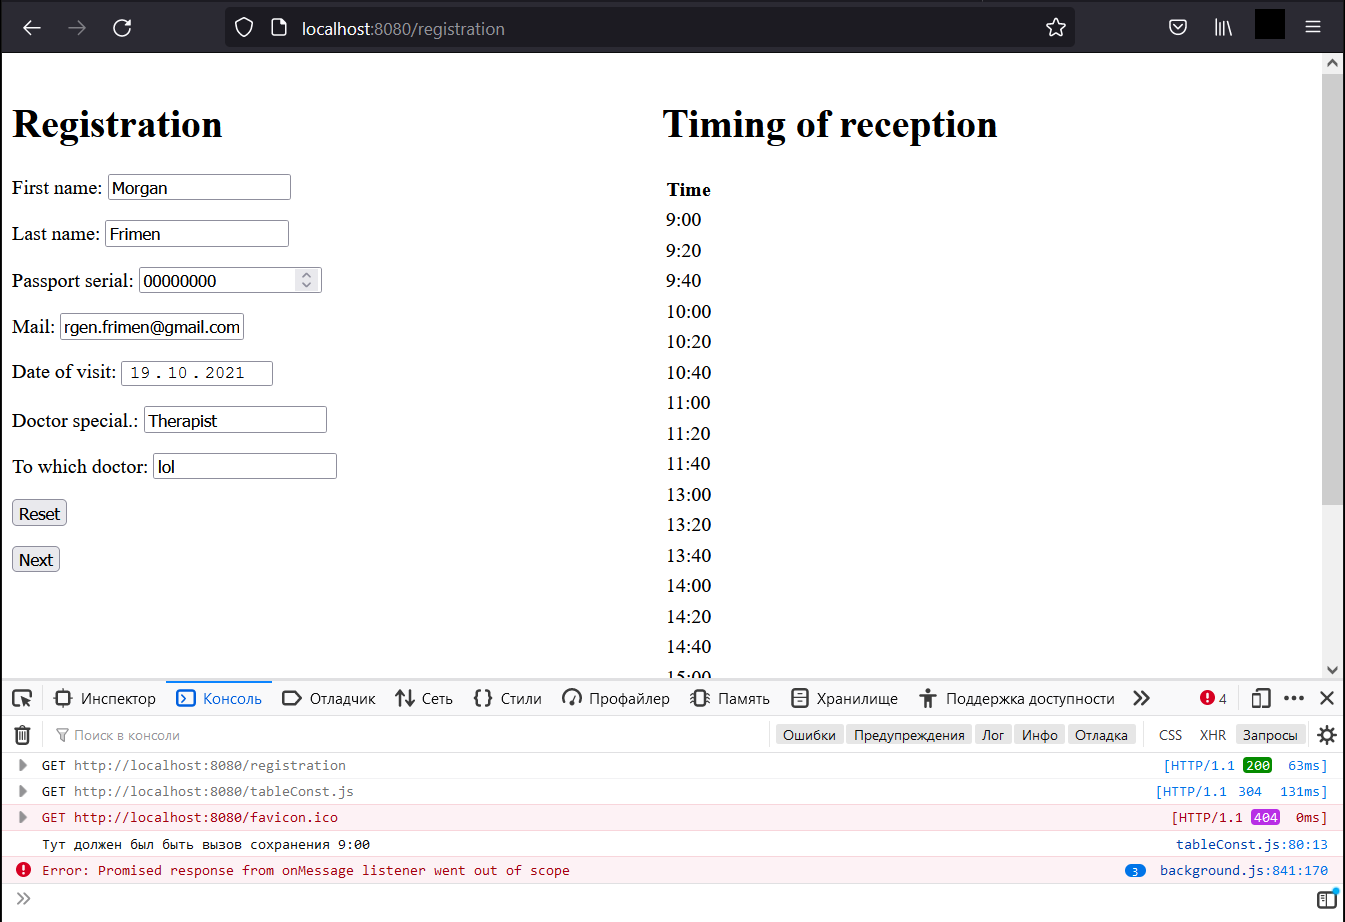
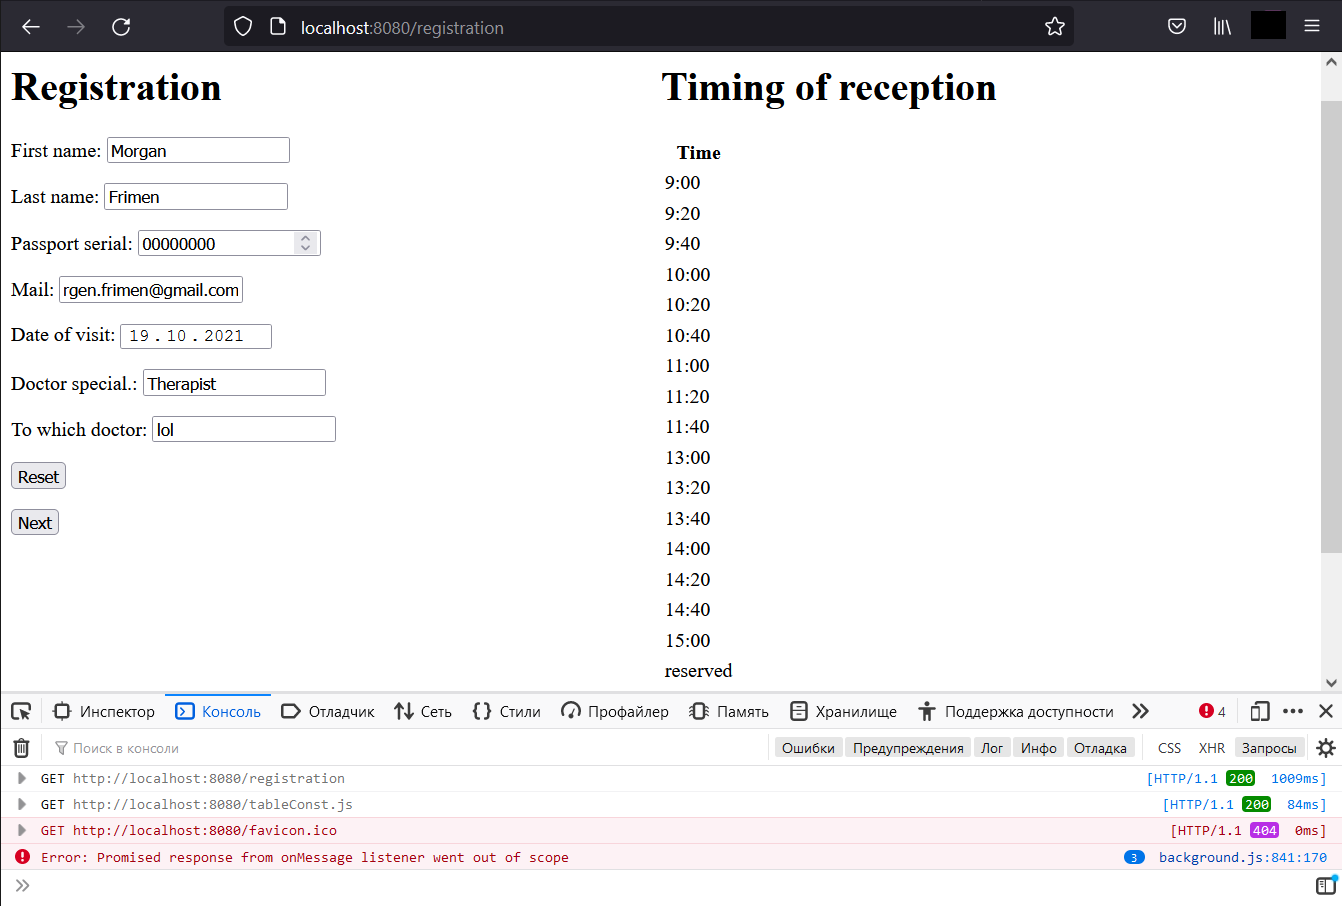
Version 0.0.14

diff --git a/Test_task_java_LevlUp/HospitalRegistration/src/main/resources/static/tableConst.js b/Test_task_java_LevlUp/HospitalRegistration/src/main/resources/static/tableConst.js
@@ -53,7 +53,7 @@ function getTableHtml(jsonDate){ //создание таблицы с свобо
         html += '</tr>';
     }
     html += '</tbody></table>';
-    html += '<p><input type="submit" value="Submit" />';
+    //html += '<p><input type="submit" value="Submit" />'; //порядок действий должен быть такой выбираем дату после этого создаетсч недостающая часть формы где добавляется полная дата т.е. год-месяц-день час-минуты
     return html;
 }
 
@@ -64,11 +64,11 @@ function reserved(jsonDate, dateArrTime){
         let value = jsonDate[i]; //тут мы получили массив дат из контролера но это все string
         let dat = new Date(value);
         let stringHoursMinutes = dat.getHours() + ":" + dat.getMinutes();
-        if(stringHoursMinutes == dateArrTime){ //полная лажа в текущей дате еще нет
+        if(stringHoursMinutes == dateArrTime){ //если при переборе списка полученного из репозитория есть хоть какието значения значит будет, совпадение это значит что кто то уже зарегистрирован на эту дату
             html += '<td>';
             html += 'reserved';
             html += '</td></tr>';
-            return html;
+            return html; //возвращаем просто строку без возможности вызова метода создания записи на этот день
         }
     }
     html += '<td onclick="oneClick(this.innerHTML)">';
@@ -78,7 +78,15 @@ function reserved(jsonDate, dateArrTime){
 }
 
 function oneClick(time){ //после нажати я на время возвращает строчку со временем
-    //return time;
+    //
+    //порядок действий должен быть такой выбираем дату после этого создаетсч недостающая часть формы где добавляется полная дата т.е. год-месяц-день час-минуты
+    //<input type="date" id="itDate" th:field="*{monthDay}" />
+    //html += '<p><input type="submit" value="Submit" />';
+
+    //document.getElementById(id).innerHTML = new HTML
+    //document.getElementById(id).attribute = new value
+    //document.getElementById(id).value = new value //наиболее перспективный вариант
+
     console.log("Тут должен был быть вызов сохранения " + time);
 }
 

diff --git a/Test_task_java_LevlUp/HospitalRegistration/src/main/resources/templates/page.html b/Test_task_java_LevlUp/HospitalRegistration/src/main/resources/templates/page.html
@@ -23,8 +23,6 @@
 </head>
 <body>
 
-<!--<script src="../JS/tableConst.js"></script>-->
-<!--<script type="text/javascript" th:src="@{/js/tableConst.js}"></script>-->
 <script type="text/javascript" src="/tableConst.js"></script>
 
 <p id="style"></p>
@@ -44,11 +42,11 @@
       <p>To which doctor: <input type="text" th:field="*{toWhichDoctor}" /></p>
       <!--<p><input type="submit" value="Submit" /> <input type="reset" value="Reset" /></p>-->
       <!--<p><input type="" value="Next" /></p>-->
-      <p><input type="reset" value="Reset" /></p>
+      <p id="pane"><input type="reset" value="Click to clear the form " /></p>
     </form>
     <p>
       <button onclick="setDateTime(document.getElementById('date'));">Next</button>
-</p>
+    </p>
   </div>
 
   <div class="right">
